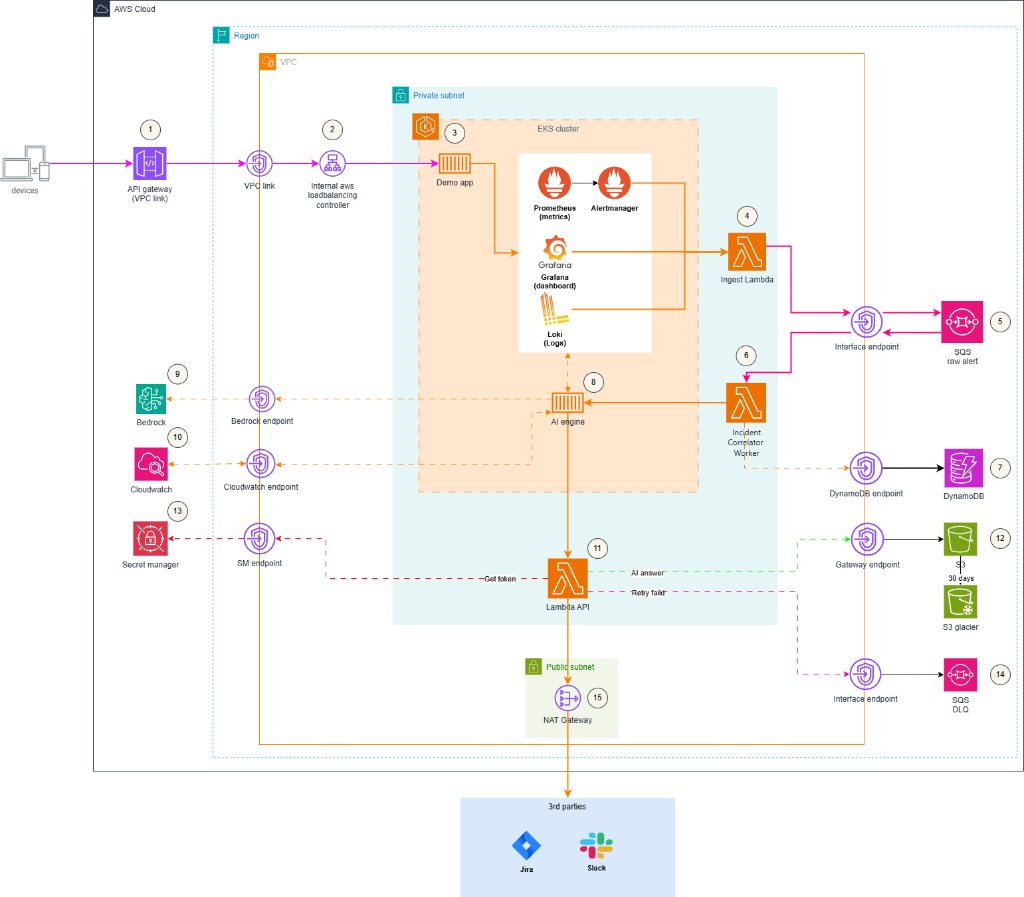
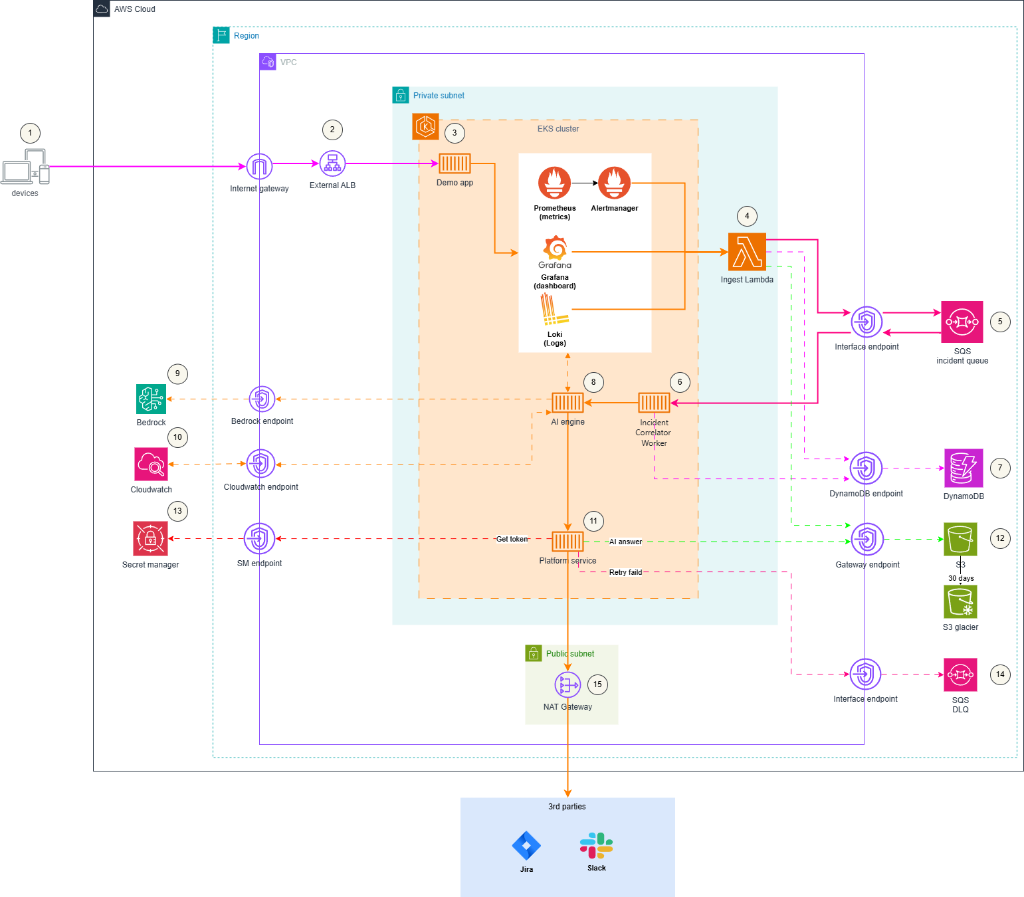
fix infra diagram

diff --git a/docs/02_infra_design.md b/docs/02_infra_design.md
@@ -2,29 +2,7 @@
 
 ## 1. Architecture diagram
 
-```text
-User / Load Generator
-        │
-        ▼
-Application Load Balancer
-        │
-        ▼
-Demo App Workloads on EKS
-        │
-        ├── metrics
-        │      ▼
-        │   Prometheus
-        │      ▼
-        │   PrometheusRule
-        │
-        ├── logs
-        │      ▼
-        │   Loki
-        │
-        └── dashboards
-               ▼
-            Grafana
-```
+![Infrastructure Architecture Diagram](assets/infra-architecture-diagram.png)
 
 ## 1.1 Main incident flow
 